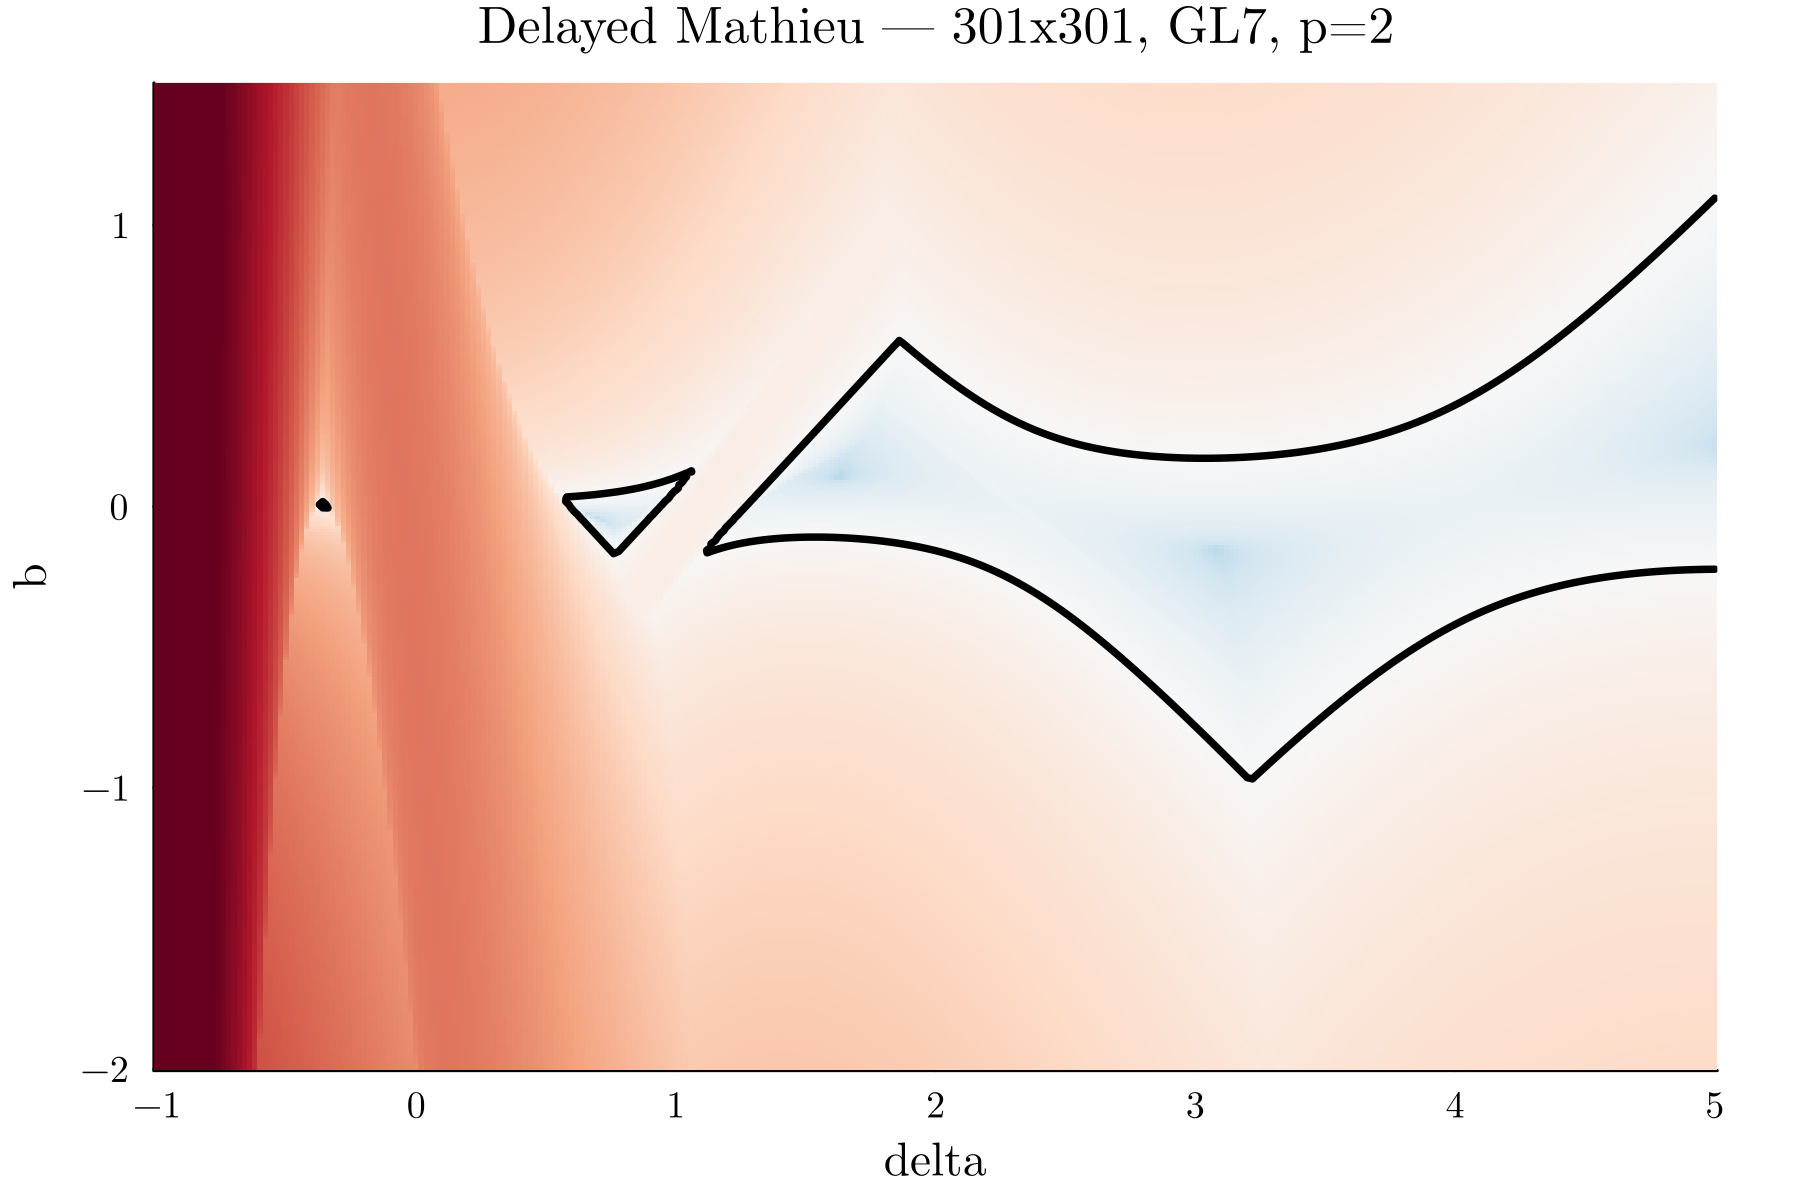
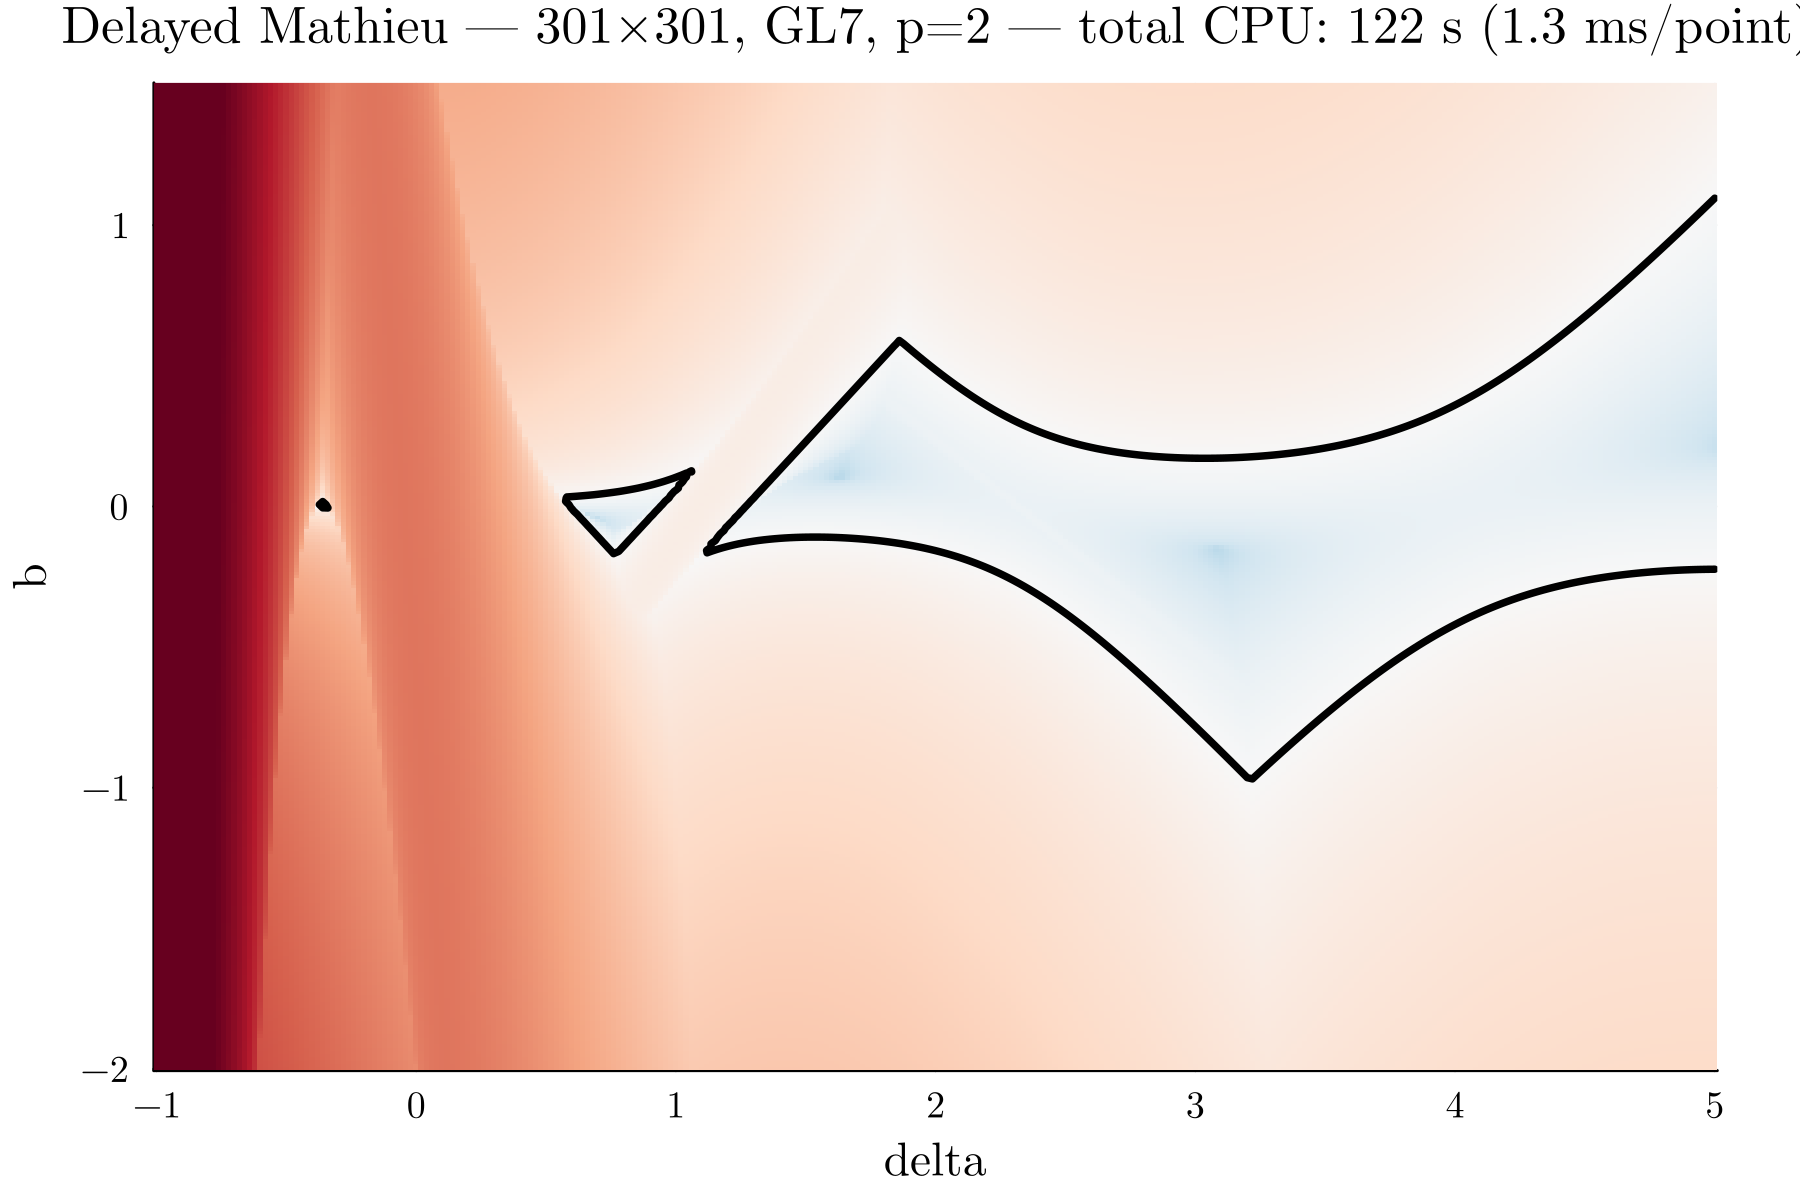
Charts in paper with CPU-time titles; intricate SSV parameters (zeta=0.02, A=0.3, adaptive p per recipe)

Changed region(s): [[0.0311, 0.0, 0.9956, 0.0617]]

diff --git a/paper/main.tex b/paper/main.tex
@@ -910,28 +910,32 @@ moderate-order variants.
 
 As an end-to-end demonstration of the sweet-spot guidance, high-resolution
 stability charts are computed by brute force --- one eigenvalue solve per
-grid point, single-threaded, using the CPU-optimal $(s^\ast, p^\ast)$ of
-each system. Figure~\ref{fig:charts} shows the results, coloured by the
-logarithm of the spectral radius with the stability boundary
+grid point, single-threaded, using the CPU-optimal setting of each system.
+Figure~\ref{fig:charts} shows the results, coloured by the logarithm of the
+spectral radius (blue: stable, red: unstable) with the stability boundary
 $\rho = 1$ drawn in black. The delayed Mathieu chart
 ($301\times301 = \chartPtsMathieu$ points, GL7, $p = 2$) completes in
-$\chartTimeMathieu$\,s (\chartMsMathieu\,ms per point); the SSV turning
-chart ($151\times151 = \chartPtsTurning$ points, GL4, $p = 158$ ---
-a resolution-pinned hard system) in $\chartTimeTurning$\,s
-(\chartMsTurning\,ms per point). No parallelization or continuation
-tricks are used; the per-point cost is simply the optimally chosen
-solution-operator solve.
+$\chartTimeMathieu$\,s (\chartMsMathieu\,ms per point); the strongly
+modulated SSV turning chart ($151\times151 = \chartPtsTurning$ points, GL4,
+step count chosen per point by the sampling recipe --- a resolution-pinned
+hard system) in $\chartTimeTurning$\,s (\chartMsTurning\,ms per point). No
+parallelization or continuation tricks are used; the per-point cost is
+simply the optimally chosen solution-operator solve.
 
 \begin{figure*}[t]
   \centering
   \figok{width=0.49\linewidth}{figures/stability_chart_mathieu.pdf}
   \figok{width=0.49\linewidth}{figures/stability_chart_turning.pdf}
   \caption{Brute-force stability charts at the optimal settings, coloured by
-  $\log_{10}\rho$ (spectral radius of the dominant multiplier), black curve:
-  stability boundary $\rho = 1$. Left: delayed Mathieu equation in the
-  $(\delta, b)$ plane ($\varepsilon = 1$, $a_1 = 0.1$, $\tau = T = 2\pi$),
-  GL7 with $p = 2$. Right: SSV turning in the $(\Omega, k_w)$ plane, GL4
-  with $p = 158$. Total single-threaded CPU times are reported in the text.}
+  $\log_{10}\rho$ (blue: stable, red: unstable), black curve: stability
+  boundary $\rho = 1$; the measured total CPU time appears in each title.
+  Left: delayed Mathieu equation in the $(\delta, b)$ plane
+  ($\varepsilon = 1$, $a_1 = 0.1$, $\tau = T = 2\pi$), GL7 with $p = 2$.
+  Right: SSV turning in the $(\Omega, k_w)$ plane with strong modulation
+  ($\zeta = 0.02$, $A_\mathrm{SSV} = 0.3$, $N_T = 10$); here the step count
+  follows the sampling recipe of Section~\ref{sec:discussion} per point,
+  $p(\Omega) = \lceil 16/\Omega \rceil$ --- the paper's own rule applied in
+  production. All computations single-threaded.}
   \label{fig:charts}
 \end{figure*}
 